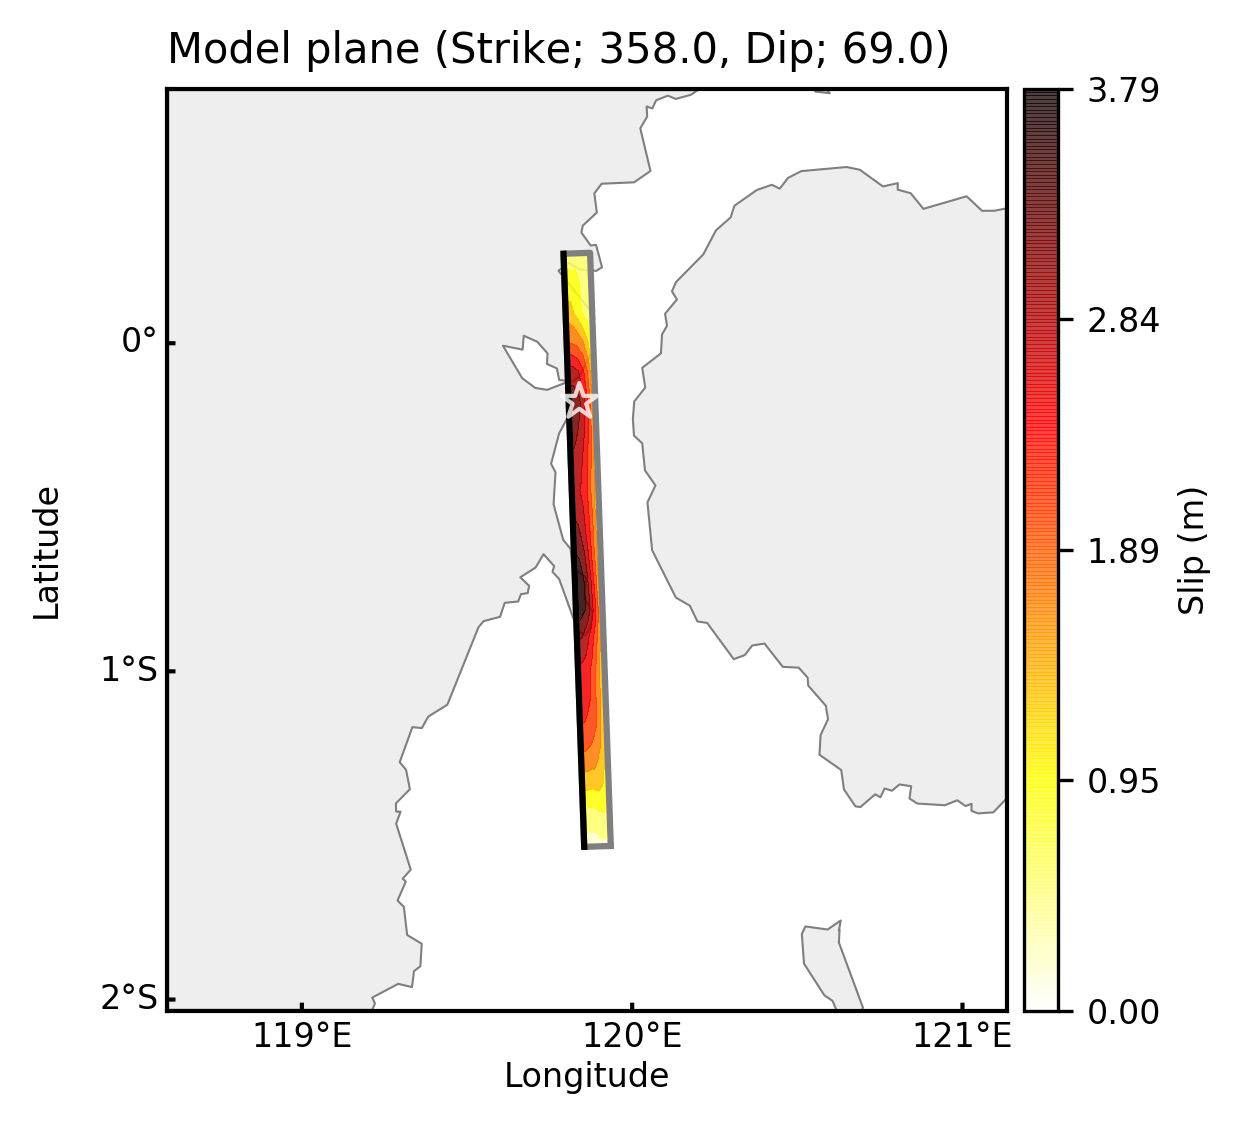
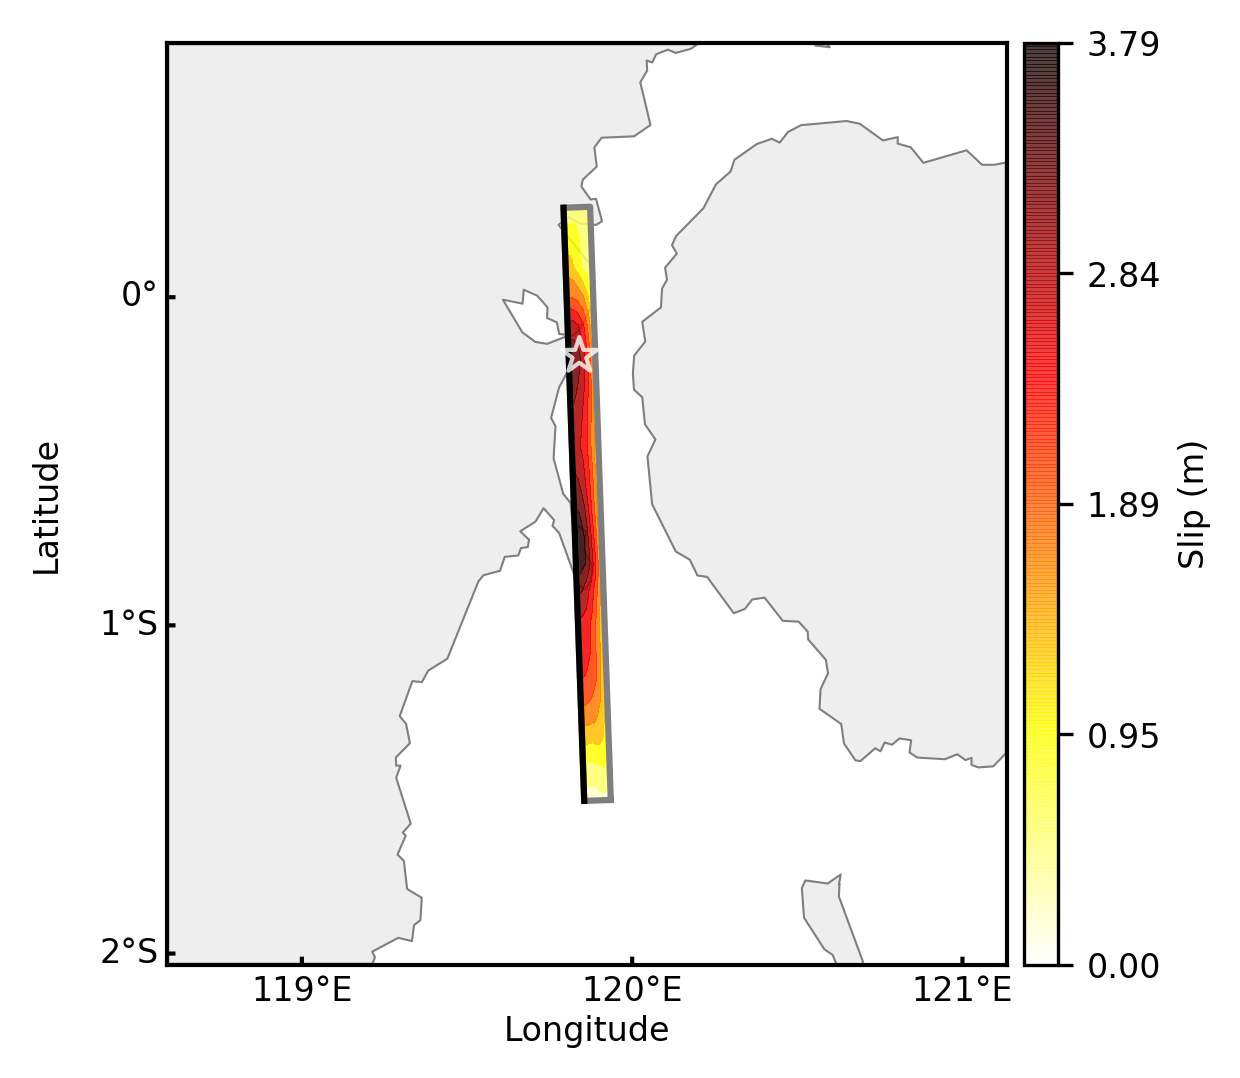
Update README and map

diff --git a/README.md b/README.md
@@ -29,9 +29,8 @@
 
 - We estimated the spatiotemporal distribution of the moment tensor solutions by using the extended framework of Yagi and Fukahata (2011, GJI, doi:[10.1111/j.1365-246X.2011.05043.x](https://doi.org/10.1111/j.1365-246X.2011.05043.x)). The detailed description for the methodology is in preparation for submission (Shimizu et al.).
 
-- What we provide here is the distribution of the slip and the preferred nodal plane (strike, dip, and rake). We extracted the double couple components from the moment tensor solutions, and selected the preferred nodal planes that are consistent with the local tectonic setting (Bellier et al., 2001, TerraNova, doi:[10.1046/j.1365-3121.2001.00382.x](https://doi.org/10.1046/j.1365-3121.2001.00382.x)).
 
-- We set the maximum rupture velocity at 4.5 km/s, accounting for a possibility of supershear-rupture propagation.
+- What we provide here is the distribution of the slip and the preferred nodal plane (strike, dip, and rake). We extracted the double couple components from the moment tensor solutions, and selected the preferred nodal planes that are consistent with the local tectonic setting (Bellier et al., 2001, TerraNova, doi:[10.1046/j.1365-3121.2001.00382.x](https://doi.org/10.1046/j.1365-3121.2001.00382.x)). We used a model plane with a strike 358° and dip 69°, but we solved the moment tensor for each source node on the model plane, i.e., we did not assume fault geometry for each source node. We set the maximum rupture velocity at 4.5 km/s, accounting for a possibility of supershear-rupture propagation.
 
 - [LonLatDepSlipDCprefered2018SulawesiIndonesia.txt](./model_181017122702/LonLatDepSlipDCprefered2018SulawesiIndonesia.txt)
 
